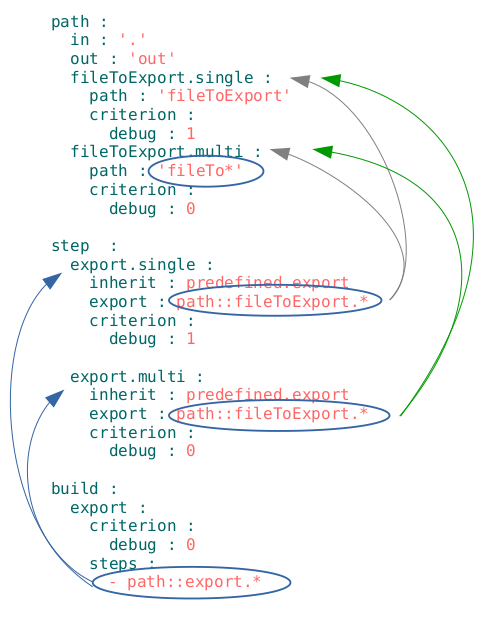
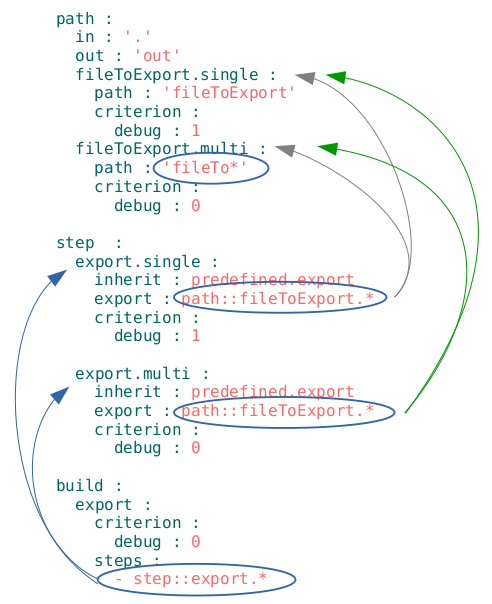
Add first redaction of Asserts.md

diff --git a/doc/version2.ukr/Concepts/Asserts.md b/doc/version2.ukr/Concepts/Asserts.md
@@ -1,1 +1,15 @@
-<a name="glob-assertion"></a> **Підтвердження вибірки ґлобу (Glob assertion) :: Обмеження селектора (Selector constraint).** Обмеження вибірки селектора з ґлобом числовим значенням для попередження виконання небажаних дій.   
+# <a name="glob-assertion"></a> Ґлоб з ассертом
+
+Ассерт - це спеціальна конструкція, що дозволяє перевіряти припущення про значення довільних даних в довільному місці програми.  
+При побудові модуля дані зводяться до ресурсів `will-файла` і припускається, що селектор вибирає задану (запрограмовану) кількість ресурсів. Якщо використовуються прості селектори, то це припущення вірне, а в випадку використання ґлобів не виключена логічна помилка. Тому, використання ґлобів разом з ассертами є гарною практикою.   
+**Ґлоб з ассертом (Обмеження селектора)** - обмеження вибірки селектора з ґлобом числовим значенням для  локалізації місця помилки та попередження виконання небажаних дій.   
+Ассерт записуєтся після ґлобу та має вигляд `=n`, де `n` - позначає кількість входженнь. Наприклад, в більшості випадків, селектор має обирати один ресурс секції `will-файла` і тому використовується ассерт '=1'.  
+
+![asserts.png](./Images/asserts.png)  
+
+На рисунку селектор `step::export.*` в збірці `export` може виконати кроки `export.single` i `export.multi`. Через помилку в `will-файлі` (відсутність критеріонів в кроці `export.multi` - див. критеріон) побудова буде зломана, оскільки, за один крок в сценарії збірки виконується один крок в секції `step`. Без ассертів утиліта `willbe` видасть повідомлення про помилку, яку буде складно локалізувати, а при використанні ассертів в термінал виводиться повідомлення про місце і ресурси, в яких виникла помилка.  
+На рисунку показано частину повідомлення про помилку для `will-файла` на рисунку вище:  
+
+![assert.message.png](./Images/assert.message.png)  
+
+Також, розробник обмежив кількість входжень файлів, які починаються на `fileTo` п'ятьма файлами (поле `path: 'fileTo*=5'` в шляху `fileToExport.multi`). Якщо кількість входжень зміниться, то побудова буде відмінена.   

diff --git a/doc/version2.ukr/Concepts/Selectors.md b/doc/version2.ukr/Concepts/Selectors.md
@@ -13,4 +13,4 @@
 
 ![selector.with.glob.png](./Images/selector.with.glob.png)  
 
-На рисунку показаний ґлоб `*`, який означає будь-яку кількість симоволів, включаючи, відсутність символів. Таким чином, під селектор `path::export.*` в збірці `export` підходять кроки `export.single` i `export.multi`, подальший відбір проходить по критеріонам. Аналогічна ситуація при виборі шляхів кроками `export.single` i `export.multi`. Селектор `fileTo*` в ресурсі `fileToExport.multi` відрізняється від попередніх тим, що посилається на файли і директорії операційної системи.
+На рисунку показаний ґлоб `*`, який означає будь-яку кількість симоволів, включаючи, відсутність символів. Таким чином, під селектор `step::export.*` в збірці `export` підходять кроки `export.single` i `export.multi`, подальший відбір проходить по критеріонам. Аналогічна ситуація при виборі шляхів кроками `export.single` i `export.multi`. Селектор `fileTo*` в ресурсі `fileToExport.multi` відрізняється від попередніх тим, що посилається на файли і директорії операційної системи.

diff --git a/doc/version2.ukr/README.md b/doc/version2.ukr/README.md
@@ -184,12 +184,16 @@
   Команда з одного обо декількох слів, розділених крапкою
 </details>
 <details>
-  <summary><a href="./Concepts/Selectors.md">Селектор</a></summary>
+  <summary><a href="./Concepts/Selectors.md#selector">Селектор</a></summary>
   Рядок-посилання на ресурс або декілька ресурсів в <code>will-файлі</code>
 </details>
 <details>
-  <summary><a href="./Concepts/Selectors.md">Селектор з ґлобом</a></summary>
+  <summary><a href="./Concepts/Selectors.md#selector-with-glob">Селектор з ґлобом</a></summary>
   Селектор, який для вибору ресурсу використовує пошукові шаблони - ґлоби
+</details>
+<details>
+  <summary><a href="./Concepts/Asserts.md">Ґлоб з ассертом</a></summary>
+  Обмеження кількості ресурсів в вибірці селектора з ґлобом
 </details>
 
 <p>...In progress...</p>
@@ -200,8 +204,4 @@
 <details>
   <summary><a href="./Concepts/Criterions.md">Критеріон</a></summary>
   Елемент порівняння в <code>will-файлі</code> для визначення умов використання ресурса
-</details>
-<details>
-  <summary><a href="./Concepts/Asserts.md">Ґлоб з ассертом</a></summary>
-  Обмеження кількості ресурсів в вибірці селектора з ґлобом
 </details>
